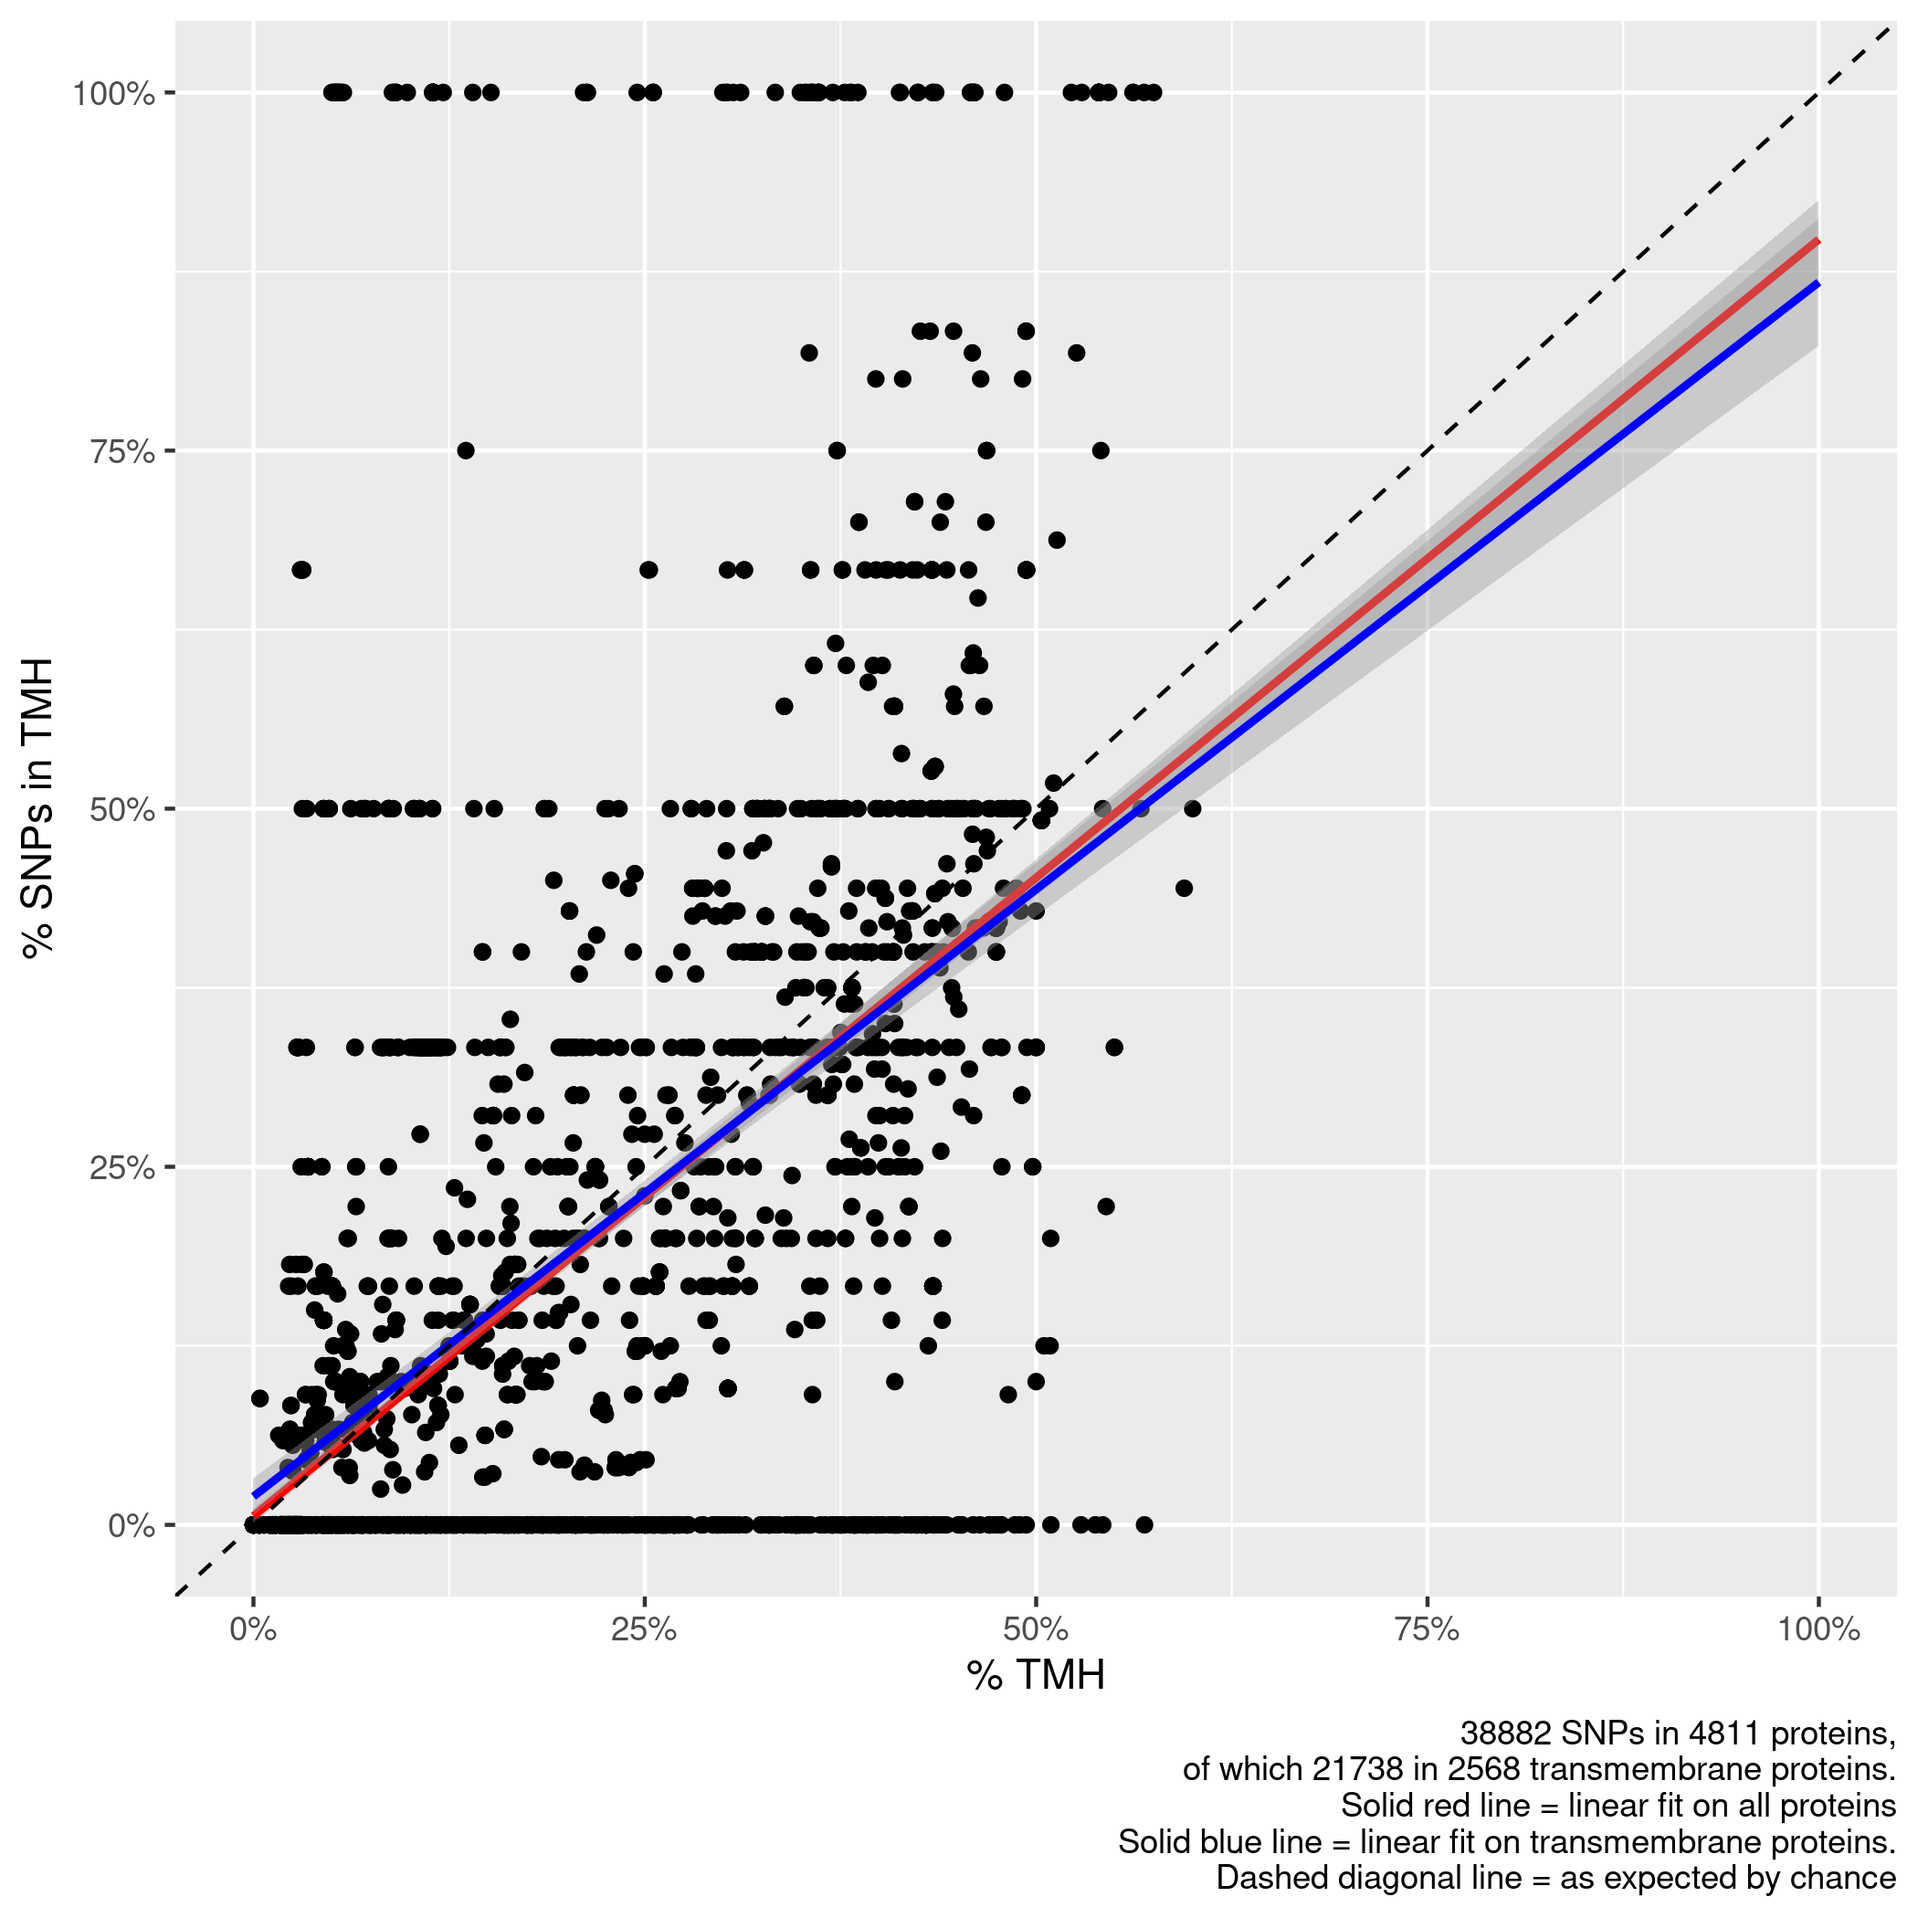
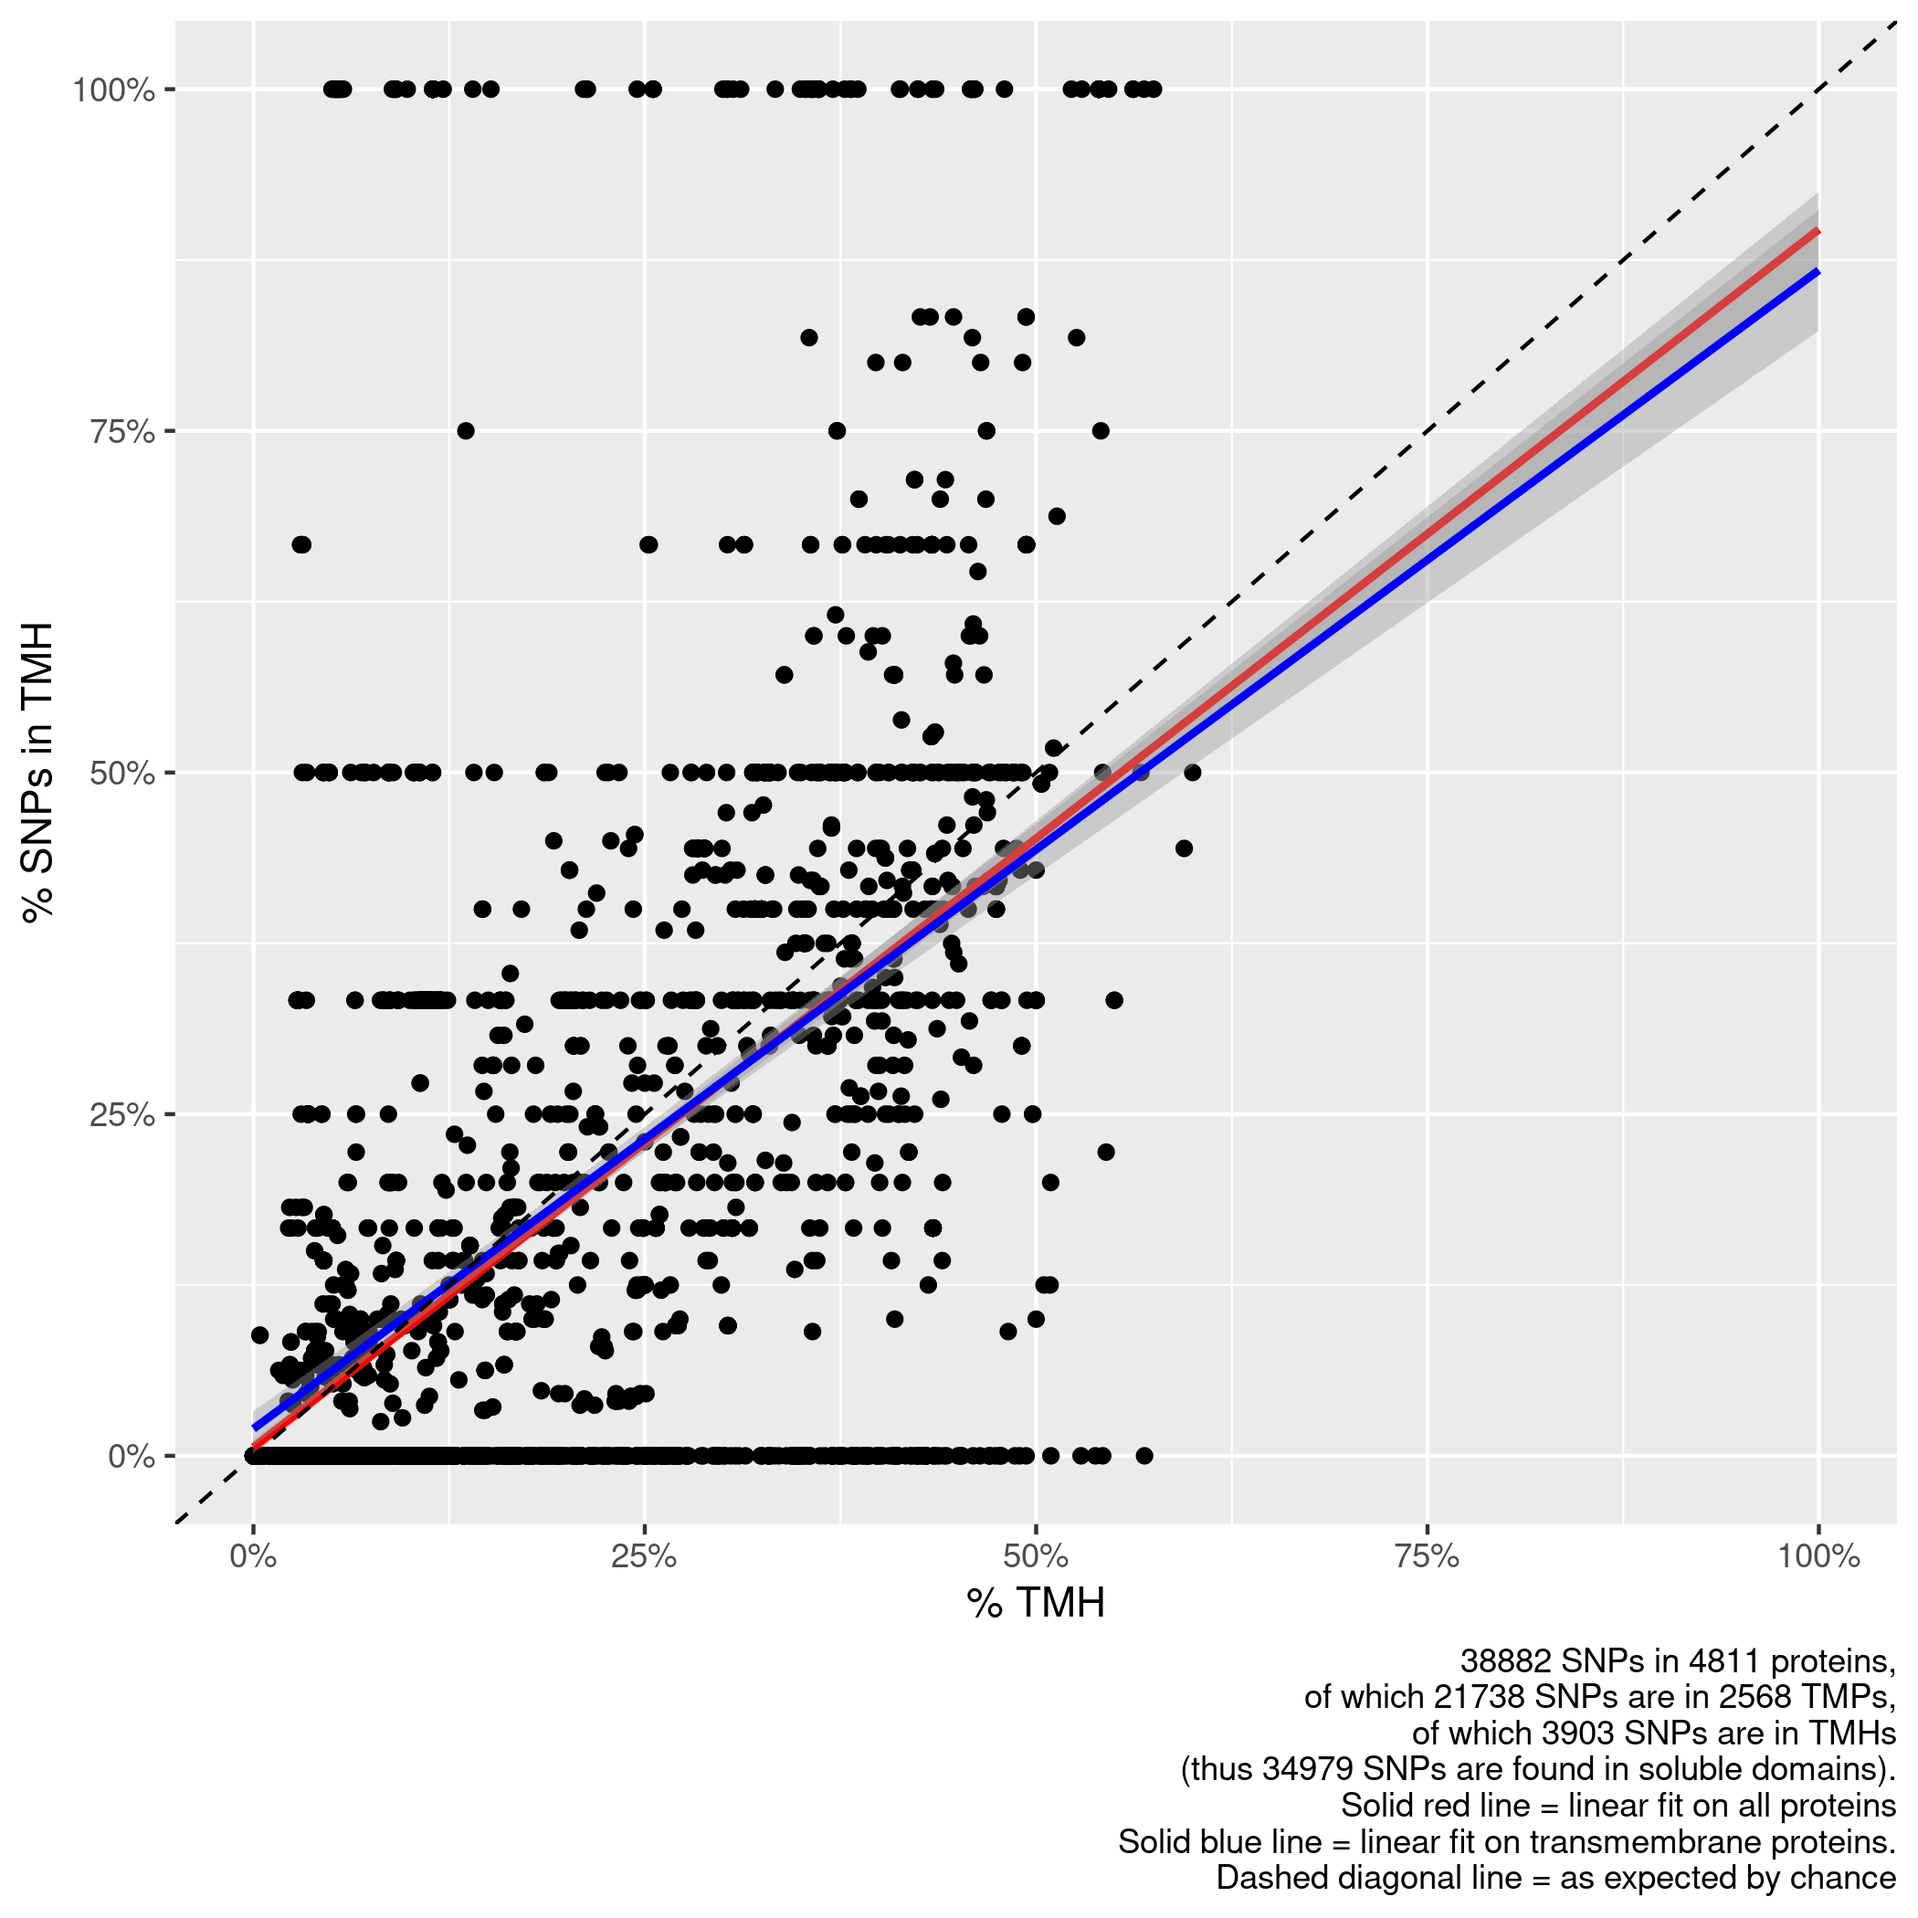
Show number of SNPs in TMHs

diff --git a/bbbq_article.tex b/bbbq_article.tex
@@ -571,11 +571,14 @@ multiplied by the fraction of the TMPs that are TMH, $f_{TMH}^{-} = 18.66\%$,
 $E(n_{SNP\_TMH}^{-}) = n_{SNP}^{-} \cdot f_{TMH}^{-} \approx 4056$.
 The discrepancy between the two expectations
 is caused by the distribution of SNPs over the soluble and
-transmembrane proteins.
+transmembrane proteins: 
+there are 38,882 SNPs found in 4811 proteins (i.e. $\approx 8.08$ SNP per protein),
+of which 21,738 SNPs in 2568 integral membrane proteins (i.e. $\approx 8.46$
+SNP per integral membrane protein).
+
+\richel{How many SNPs in TMHs?}
 See figure \ref{fig:f_tmh_ncbi} to see which percentages
 are TMH of the transmembrane proteins.
-See figure HIERO to see the distribution of SNPs over the
-soluble and transmembrane proteins.
 
 We first calculated the expected number of SNPs
 found in TMHs, which is 61,457 SNPs \richel{GvdB: I don’t completely follow this. Based on what?} and multiplied this number by 6.8\% 
